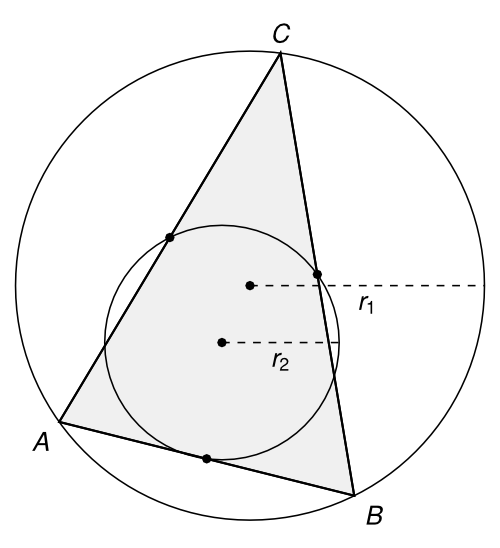
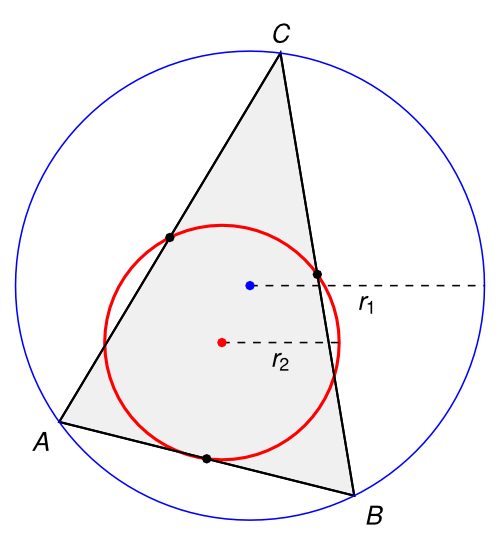
tikz: updated some triangle images

diff --git a/tikz/triangle-9-point-circle-escribed-circles/triangle-9-point-circle-escribed-circles.tex b/tikz/triangle-9-point-circle-escribed-circles/triangle-9-point-circle-escribed-circles.tex
@@ -1,0 +1,93 @@
+\documentclass{article}
+\usepackage[pdftex,active,tightpage]{preview}
+\setlength\PreviewBorder{2mm}
+\usepackage{tikz}
+\usepackage{tkz-euclide}
+\usetkzobj{all}
+\usetikzlibrary{shapes, calc, decorations} 
+\usepackage{amsmath,amssymb}
+\usepackage{helvet}
+\usepackage[eulergreek]{sansmath}
+
+\begin{document}
+\begin{preview}
+\begin{tikzpicture}[very thick,font=\sansmath\sffamily]
+    \tkzDefPoint(0,1){A}
+    \tkzDefPoint(4,0){B}
+    \tkzDefPoint(3,6){C}
+
+    \tkzLabelPoints[below left,font=\sansmath\sffamily](A)
+    \tkzLabelPoints[below right,font=\sansmath\sffamily](B)
+    \tkzLabelPoints[above,font=\sansmath\sffamily](C)
+
+    % Draw polygon
+    \tkzDrawPolygon[thick,fill=gray!10](A,B,C)
+
+    % Get mid points
+    \tkzDefMidPoint(A,B) \tkzGetPoint{F}
+    \tkzDefMidPoint(A,C) \tkzGetPoint{E}
+    \tkzDefMidPoint(B,C) \tkzGetPoint{D}
+
+    \tkzDefCircle[circum,/tikz/overlay](D,E,F)\tkzGetPoint{Icircle}\tkzGetLength{rIN}
+
+    % Get 'Hoehe'
+    \tkzInterLC[/tikz/overlay](B,C)(A,B)\tkzGetPoints{hah1}{hah2}
+    \tkzDefMidPoint(hah1,hah2) \tkzGetPoint{G}
+
+    \tkzInterLC[/tikz/overlay](A,B)(C,A)\tkzGetPoints{hch1}{hch2}
+    \tkzDefMidPoint(hch1,hch2) \tkzGetPoint{H}
+
+    \tkzInterLC[/tikz/overlay](A,C)(B,A)\tkzGetPoints{hbh1}{hbh2}
+    \tkzDefMidPoint(hbh1,hbh2) \tkzGetPoint{I}
+
+    % 'Hoehenschnittpunkt'
+    \tkzInterLL(A,G)(C,H)\tkzGetPoint{S}
+
+    % More points
+    \tkzInterLC[/tikz/overlay,R](A,G)(Icircle,\rIN pt)\tkzGetPoints{G}{J}
+    \tkzInterLC[/tikz/overlay,R](B,I)(Icircle,\rIN pt)\tkzGetPoints{L}{I}
+    \tkzInterLC[/tikz/overlay,R](C,H)(Icircle,\rIN pt)\tkzGetPoints{H}{K}
+
+    % Draw polygon
+    \tkzDrawPolygon[thick](A,B,C)
+    \tkzDefCircle[in,/tikz/overlay](A,B,C) \tkzGetPoint{Ocircle}\tkzGetLength{dOcircle}
+    \tkzDrawCircle[R](Ocircle,\dOcircle pt)
+
+    \tkzDefCircle[circum,/tikz/overlay](D,E,F)\tkzGetPoint{Icircle}\tkzGetLength{rIN}
+    \tkzClipCircle[R](Icircle,5cm)
+
+    % Get escribed circles
+    % first one
+    \tkzDefLine[bisector](B,A,C)\tkzGetPoint{alphaBisector}
+    \tkzDefBarycentricPoint(A=1,B=-2)\tkzGetPoint{ABproj}
+    \tkzDefLine[bisector](ABproj,B,C)\tkzGetPoint{betaOuterBisector}
+    % \tkzDrawSegments[blue](A,alphaBisector B,betaOuterBisector)
+    \tkzInterLL(A,alphaBisector)(B,betaOuterBisector) \tkzGetPoint{EscribedCircleCenter1}
+    \tkzInterLC(A,alphaBisector)(Icircle,H)\tkzGetPoints{EscribedCircleRadius1a}{EscribedCircleRadius2b}
+    \tkzDrawCircle[color=blue](EscribedCircleCenter1,EscribedCircleRadius1a)
+
+    % second one
+    \tkzDefLine[bisector](C,B,A)\tkzGetPoint{betaBisector}
+    \tkzDefBarycentricPoint(B=1,A=-2)\tkzGetPoint{BAproj}
+    \tkzDefLine[bisector](C,A,BAproj)\tkzGetPoint{alphaOuterBisector}
+    % \tkzDrawSegments[blue](B,betaBisector A,alphaOuterBisector)
+    \tkzInterLL(B,betaBisector)(A,alphaOuterBisector) \tkzGetPoint{EscribedCircleCenter2}
+    \tkzInterLC(B,betaBisector)(Icircle,H)\tkzGetPoints{EscribedCircleRadius2a}{EscribedCircleRadius2b}
+    \tkzDrawCircle[color=blue](EscribedCircleCenter2,EscribedCircleRadius2b)
+
+    % third one
+    \tkzDefLine[bisector](A,C,B)\tkzGetPoint{gammaBisector}
+    \tkzDefBarycentricPoint(A=-2,C=1)\tkzGetPoint{ACproj}
+    \tkzDefLine[bisector](ACproj,A,B)\tkzGetPoint{gammaOuterBisector}
+    % \tkzDrawSegments[blue](C,gammaBisector A,gammaOuterBisector)
+    \tkzInterLL(C,gammaBisector)(A,gammaOuterBisector) \tkzGetPoint{EscribedCircleCenter3}
+    \tkzInterLC(C,gammaBisector)(Icircle,H)\tkzGetPoints{EscribedCircleRadius3a}{EscribedCircleRadius3b}
+    \tkzDrawCircle[color=blue](EscribedCircleCenter3,EscribedCircleRadius3b)
+
+
+    \tkzDrawPoints[size=2,fill=black](D,E,F,Ocircle)
+    \tkzDrawPoints[size=2,fill=red,color=red](Icircle)
+    \tkzDrawCircle[R,color=red,very thick](Icircle,\rIN pt)
+\end{tikzpicture}
+\end{preview}
+\end{document}

diff --git a/tikz/triangle-9-point-circle/triangle-9-point-circle.tex b/tikz/triangle-9-point-circle/triangle-9-point-circle.tex
@@ -40,29 +40,29 @@
     \tkzLabelPoints[right,font=\sansmath\sffamily](G)
 
     \tkzInterLC[/tikz/overlay](A,B)(C,A)\tkzGetPoints{hch1}{hch2}
-    \tkzDefMidPoint(hch1,hch2) \tkzGetPoint{H}
-    \tkzLabelPoints[below,font=\sansmath\sffamily](H)
+    \tkzDefMidPoint(hch1,hch2) \tkzGetPoint{I}
+    \tkzLabelPoints[below,font=\sansmath\sffamily](I)
 
     \tkzInterLC[/tikz/overlay](A,C)(B,A)\tkzGetPoints{hbh1}{hbh2}
-    \tkzDefMidPoint(hbh1,hbh2) \tkzGetPoint{I}
-    \tkzLabelPoints[left,font=\sansmath\sffamily](I)
+    \tkzDefMidPoint(hbh1,hbh2) \tkzGetPoint{H}
+    \tkzLabelPoints[left,font=\sansmath\sffamily](H)
 
     % 'Hoehenschnittpunkt'
-    \tkzInterLL(A,G)(C,H)\tkzGetPoint{S}
+    \tkzInterLL(A,G)(C,I)\tkzGetPoint{S}
     \tkzLabelPoints[above right,font=\sansmath\sffamily](S)
 
     % More points
     \tkzInterLC[/tikz/overlay,R](A,G)(Icircle,\rIN pt)\tkzGetPoints{G}{J}
     \tkzLabelPoints[above,font=\sansmath\sffamily](J)
 
-    \tkzInterLC[/tikz/overlay,R](B,I)(Icircle,\rIN pt)\tkzGetPoints{L}{I}
+    \tkzInterLC[/tikz/overlay,R](B,H)(Icircle,\rIN pt)\tkzGetPoints{L}{H}
     \tkzLabelPoints[above,font=\sansmath\sffamily](L)
 
-    \tkzInterLC[/tikz/overlay,R](C,H)(Icircle,\rIN pt)\tkzGetPoints{H}{K}
+    \tkzInterLC[/tikz/overlay,R](C,I)(Icircle,\rIN pt)\tkzGetPoints{I}{K}
     \tkzLabelPoints[above left,font=\sansmath\sffamily](K)
 
     % Draw rest
-    \tkzDrawSegments[dashed](A,G C,H B,I)
+    \tkzDrawSegments[dashed](A,G C,I B,H)
     \tkzDrawSegments[thick](A,J J,S)  % red,very thick
     \tkzDrawSegments[thick](C,K K,S)  % green,very 
     \tkzDrawSegments[thick](B,L L,S)  % blue,very 

diff --git a/tikz/triangle-9-point-circle-circumscribed-circle/triangle-9-point-circle-circumscribed-circle.tex b/tikz/triangle-9-point-circle-circumscribed-circle/triangle-9-point-circle-circumscribed-circle.tex
@@ -29,7 +29,7 @@
     \tkzDefMidPoint(B,C) \tkzGetPoint{D}
 
     \tkzDefCircle[circum,/tikz/overlay](D,E,F)\tkzGetPoint{Icircle}\tkzGetLength{rIN}
-    \tkzDrawCircle[R](Icircle,\rIN pt)
+    \tkzDrawCircle[R,color=red, very thick](Icircle,\rIN pt)
 
     % Get 'Hoehe'
     \tkzInterLC[/tikz/overlay](B,C)(A,B)\tkzGetPoints{hah1}{hah2}
@@ -52,7 +52,7 @@
     % Draw polygon
     \tkzDrawPolygon[thick](A,B,C)
     \tkzDefCircle[circum,/tikz/overlay](A,B,C) \tkzGetPoint{Ocircle}
-    \tkzDrawCircle(Ocircle,A)
+    \tkzDrawCircle[color=blue](Ocircle,A)
     \tkzCalcLength(Ocircle,A) \tkzGetLength{dOcircle}
 
     % TODO: define shiftedOcircOrigin which is
@@ -67,7 +67,9 @@
     \tkzDrawSegments[dashed](Icircle,C'')
     \tkzLabelSegment[below](Icircle,C''){$r_2$} 
 
-    \tkzDrawPoints[size=2,fill=black](D,E,F,Icircle,Ocircle)
+    \tkzDrawPoints[size=2,fill=black](D,E,F)
+    \tkzDrawPoints[size=2,fill=blue,color=blue](Ocircle)
+    \tkzDrawPoints[size=2,fill=red,color=red](Icircle)
 \end{tikzpicture}
 \end{preview}
 \end{document}

diff --git a/tikz/triangle-inscribed-circle/triangle-inscribed-circle.tex b/tikz/triangle-inscribed-circle/triangle-inscribed-circle.tex
@@ -14,7 +14,7 @@
 \begin{tikzpicture}[very thick,font=\sansmath\sffamily]
     \tkzDefPoint(0,0){A}
     \tkzDefPoint(5.0,0){B}
-    \tkzDefPoint(4.0,3){C}
+    \tkzDefPoint(3.5,3){C}
 
     \tkzLabelPoints[below left,font=\sansmath\sffamily](A)
     \tkzLabelPoints[below right,font=\sansmath\sffamily](B)
@@ -67,7 +67,7 @@
     \tkzDrawSegments(I,ABq I,BCq I,CAq)
     \tkzLabelSegment[right](I,ABq){r}
     \tkzLabelSegment[above](I,BCq){r}
-    \tkzLabelSegment[left](I,CAq){r}
+    \tkzLabelSegment[above](I,CAq){r}
 
     % Draw polygon
     \tkzDrawPolygon[thick](A,B,C)

diff --git a/tikz/triangle-9-point-circle-escribed-circles/README.md b/tikz/triangle-9-point-circle-escribed-circles/README.md
@@ -1,0 +1,3 @@
+Compiled example
+----------------
+![Example](triangle-9-point-circle-escribed-circles.png)
